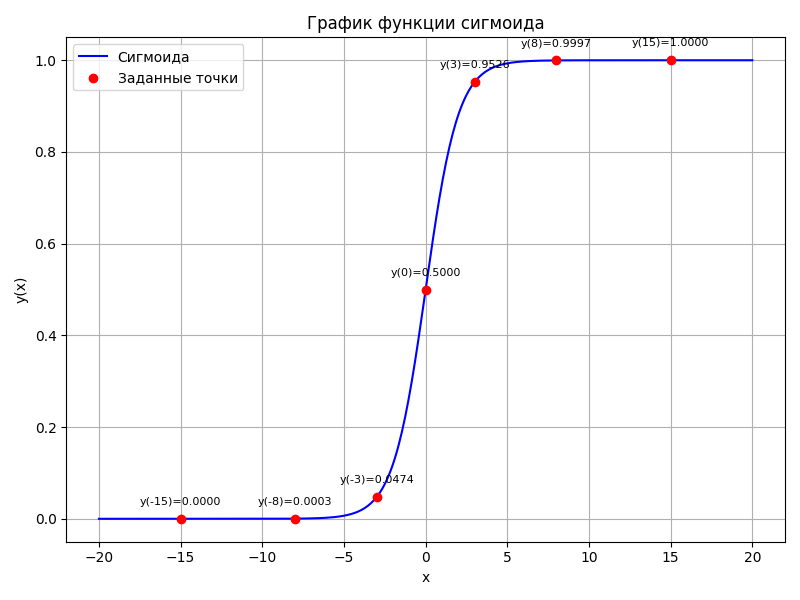
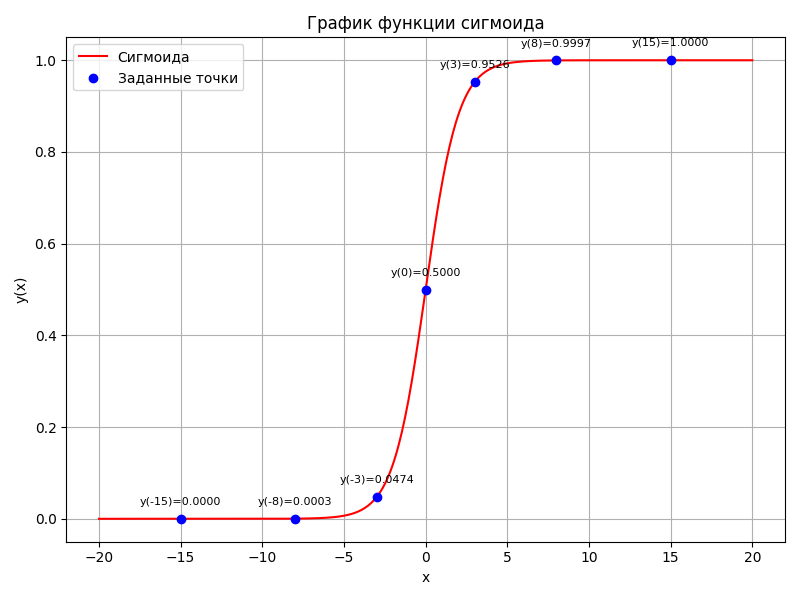
Hotfix

diff --git a/task_5_sigmoida_tanh/solution.py b/task_5_sigmoida_tanh/solution.py
@@ -14,6 +14,7 @@ import numpy as np
 def sigmoid(x):
     return 1 / (1 + np.exp(-x))
 
+
 # Заданные точки
 points = [0, 3, -3, 8, -8, 15, -15]
 
@@ -28,10 +29,11 @@ x_vals = np.linspace(-20, 20, 400)
 y_vals = sigmoid(x_vals)
 
 plt.figure(figsize=(8, 6))
-plt.plot(x_vals, y_vals, label='Сигмоида', color='blue')
-plt.scatter(points, [sigmoid(x) for x in points], color='red', zorder=5, label='Заданные точки')
+plt.plot(x_vals, y_vals, label='Сигмоида', color='red')
+plt.scatter(points, [sigmoid(x) for x in points], color='blue', zorder=5, label='Заданные точки')
 for point in points:
-    plt.annotate(f'y({point})={sigmoid(point):.4f}', (point, sigmoid(point)), textcoords="offset points", xytext=(0, 10), ha='center', fontsize=8)
+    plt.annotate(f'y({point})={sigmoid(point):.4f}', (point, sigmoid(point)), textcoords="offset points",
+                 xytext=(0, 10), ha='center', fontsize=8)
 plt.title('График функции сигмоида')
 plt.xlabel('x')
 plt.ylabel('y(x)')
@@ -39,7 +41,6 @@ plt.grid(True)
 plt.legend()
 plt.tight_layout()
 plt.savefig('1_sigmoid_plot.png')
-
 
 # 2. Построение трёх графиков гиперболических функций на одной картинке с использованием plt.subplot
 
@@ -96,6 +97,7 @@ def tanh_derivative_np(x):
     t = np.tanh(x)
     return 1 - t ** 2
 
+
 # Вычисление производных для заданных точек (опционально)
 # print("\nВычисление производных функций в заданных точках:")
 # for x in points:
@@ -112,8 +114,8 @@ tanh_der_vals = tanh_derivative_np(x_der)
 
 # Создание и сохранение графика производных
 plt.figure(figsize=(10, 6))
-plt.plot(x_der, sig_der_vals, label="y'(сигмоида)", color='red', linewidth=2)
-plt.plot(x_der, tanh_der_vals, label="y'(tanh(x))", color='blue', linewidth=2)
+plt.plot(x_der, sig_der_vals, label="y'(сигмоида)", color='green', linewidth=2)
+plt.plot(x_der, tanh_der_vals, label="y'(tanh(x))", color='yellow', linewidth=2)
 plt.title('Графики производных функций сигмоида и tanh(x)')
 plt.xlabel('x')
 plt.ylabel('Значение производной')
